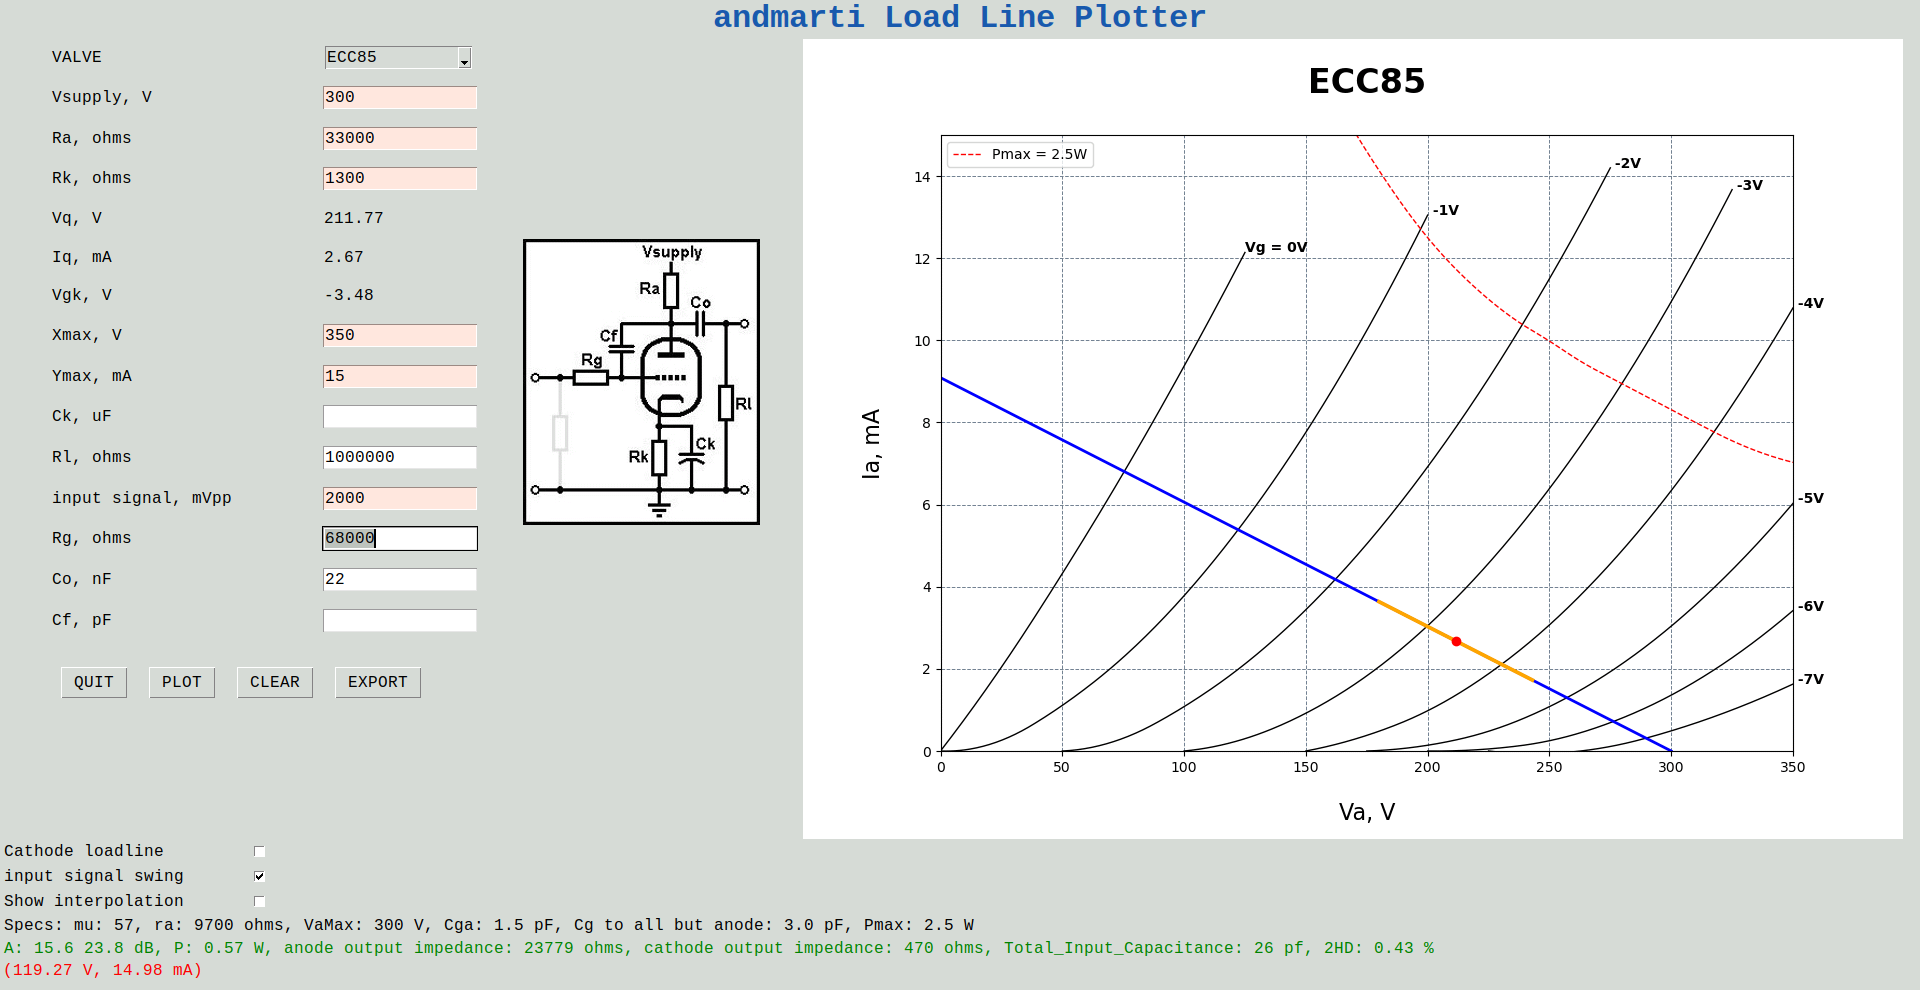
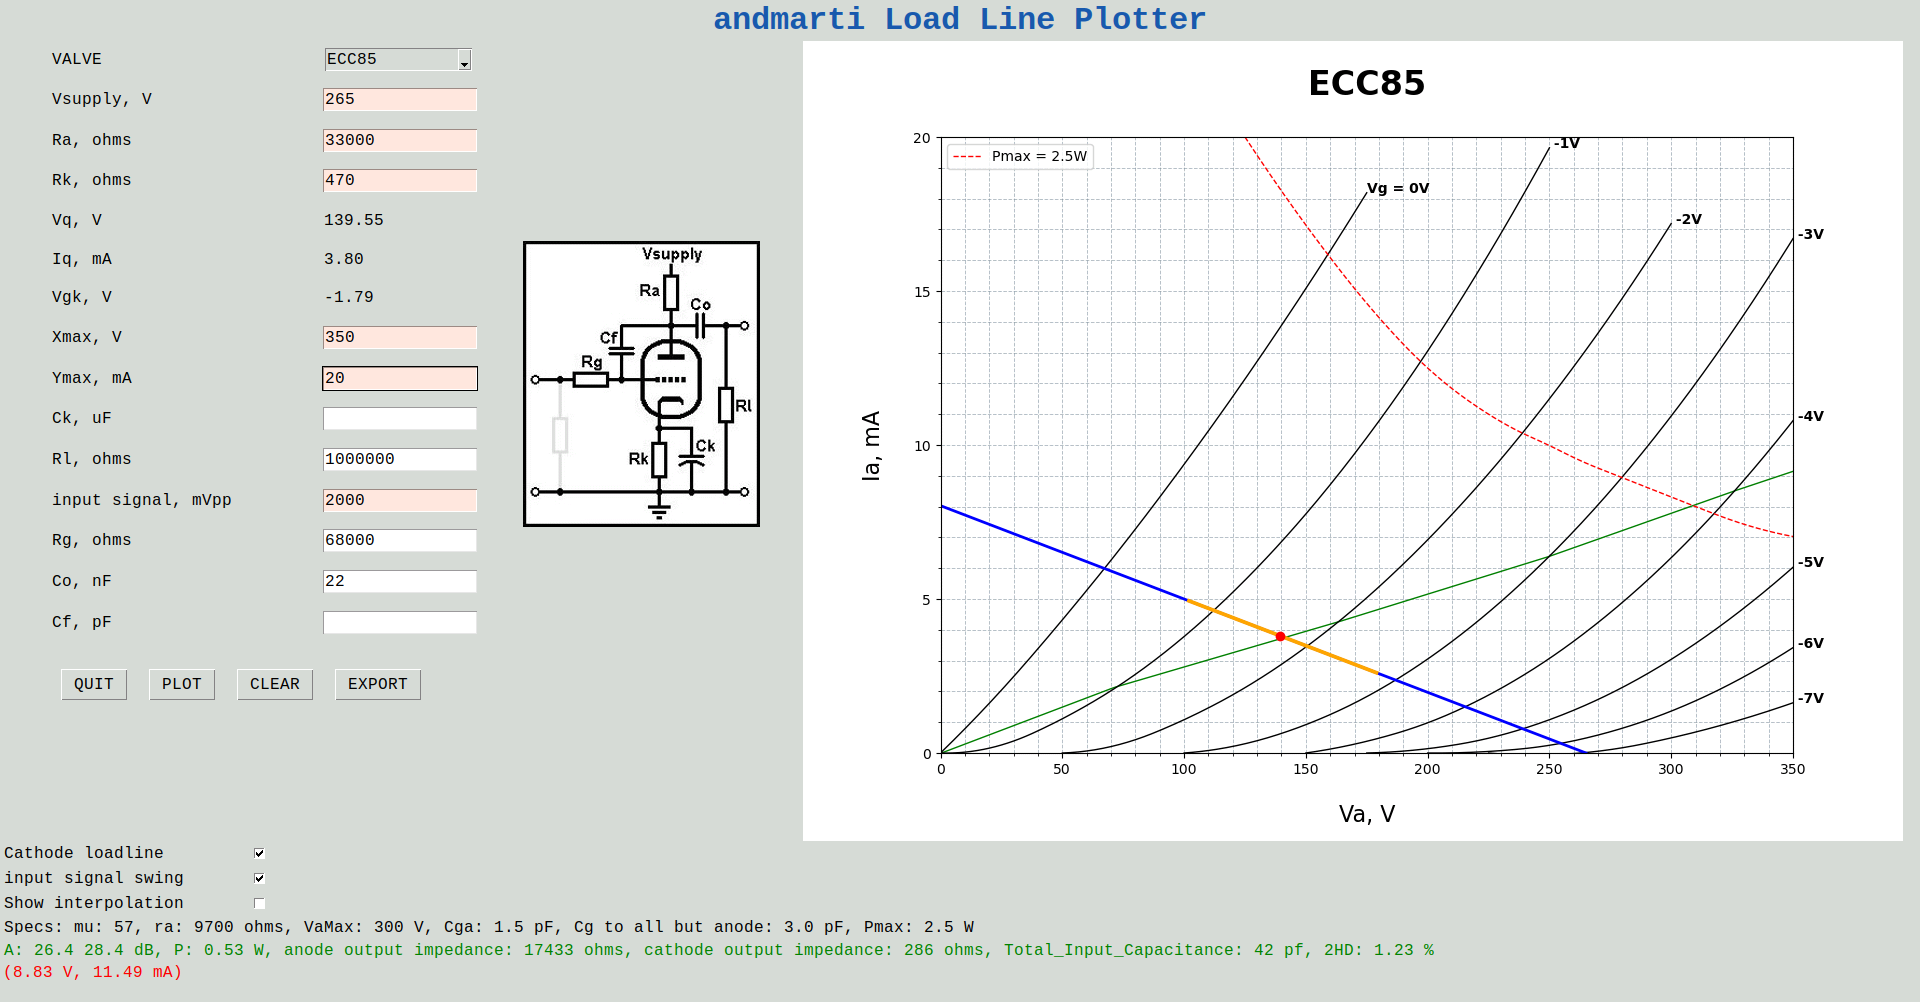
change grid

diff --git a/allplotter.py b/allplotter.py
@@ -9,6 +9,7 @@ import pandas as pd
 import numpy as np
 import math
 from matplotlib import pyplot as plt
+from matplotlib.ticker import AutoMinorLocator
 from scipy.interpolate import make_interp_spline, BSpline #interpolation
 from scipy.interpolate import griddata as gd
 from tkinter import *
@@ -62,7 +63,7 @@ class mclass:
         self.canvas = FigureCanvasTkAgg(self.fig, master=self.window)
         self.canvas.get_tk_widget().grid(row=1, column=4, rowspan=44, columnspan=3, sticky=W, padx=0, pady=0)
         self.canvas.mpl_connect('motion_notify_event', self.motion_hover)
-        self.ax.grid(which="both", axis='both', color='slategray', linestyle='--', linewidth=0.7)
+        self.ax.grid(which="both", axis='both', color='slategray', linestyle='--', linewidth=0.7, alpha=0.5)
         self.ax.set_ylabel('Ia, mA', fontsize=16, loc='center', labelpad=20)
         self.ax.set_xlabel('Va, V', fontsize=16, loc='center',  labelpad=20)
 
@@ -300,11 +301,21 @@ class mclass:
         DEFAULT_YMAX = d['DefaultYmax'].iloc[0]
         self.ax.set_ylim(0, d['DefaultYmax'].iloc[0])
         self.ax.set_xlim(0, d['DefaultXmax'].iloc[0])
+        if len(self.etr_Ymax.get()) != 0 and self.can_convert_to_float(self.etr_Ymax.get()) == False: return
+        if len(self.etr_Xmax.get()) != 0 and self.can_convert_to_float(self.etr_Xmax.get()) == False: return
+        self.ax.set_yticks(range(0, int(self.etr_Ymax.get())+1, 5))
+        self.ax.xaxis.set_minor_locator(AutoMinorLocator(5))
+        self.ax.yaxis.set_minor_locator(AutoMinorLocator(5))
+        self.ax.grid(which="both", axis='both', color='slategray', linestyle='--', linewidth=0.7)
+        #  self.ax.xaxis.set_ticks(np.arange(0, float(self.etr_Xmax.get()), float(self.etr_Xmax.get())/5), fontsize=20, visible=True)
         self.str_Ymax.set(DEFAULT_YMAX)
         self.str_Xmax.set(DEFAULT_XMAX)
 
     def clear_chart(self):
         self.ax.clear() # clear previous plot !!!!
+        self.ax.set_yticks(range(0, int(self.etr_Ymax.get())+1, 5))
+        self.ax.xaxis.set_minor_locator(AutoMinorLocator(5))
+        self.ax.yaxis.set_minor_locator(AutoMinorLocator(5))
         self.ax.grid(which="both", axis='both', color='slategray', linestyle='--', linewidth=0.7)
         self.ax.set_ylabel('Ia, mA', fontsize=16, loc='center', labelpad=20)
         self.ax.set_xlabel('Va, V', fontsize=16, loc='center',  labelpad=20)
@@ -403,8 +414,10 @@ class mclass:
 
         # setup plot
         self.ax.set_title(valve, fontsize=24, pad=30, weight='bold')
+        self.ax.set_yticks(range(0, int(self.etr_Ymax.get())+1, 5))
+        self.ax.xaxis.set_minor_locator(AutoMinorLocator(5))
+        self.ax.yaxis.set_minor_locator(AutoMinorLocator(5))
         self.ax.grid(which="both", axis='both', color='slategray', linestyle='--', linewidth=0.7)
-        #self.ax.grid(which="both", axis='both', color='slategray', linestyle='--', linewidth=0.7)
         #self.ax.set_ylabel('Ia, mA', fontsize=16, loc='center')
         #self.ax.set_xlabel('Va, V', fontsize=16, loc='center')
 
